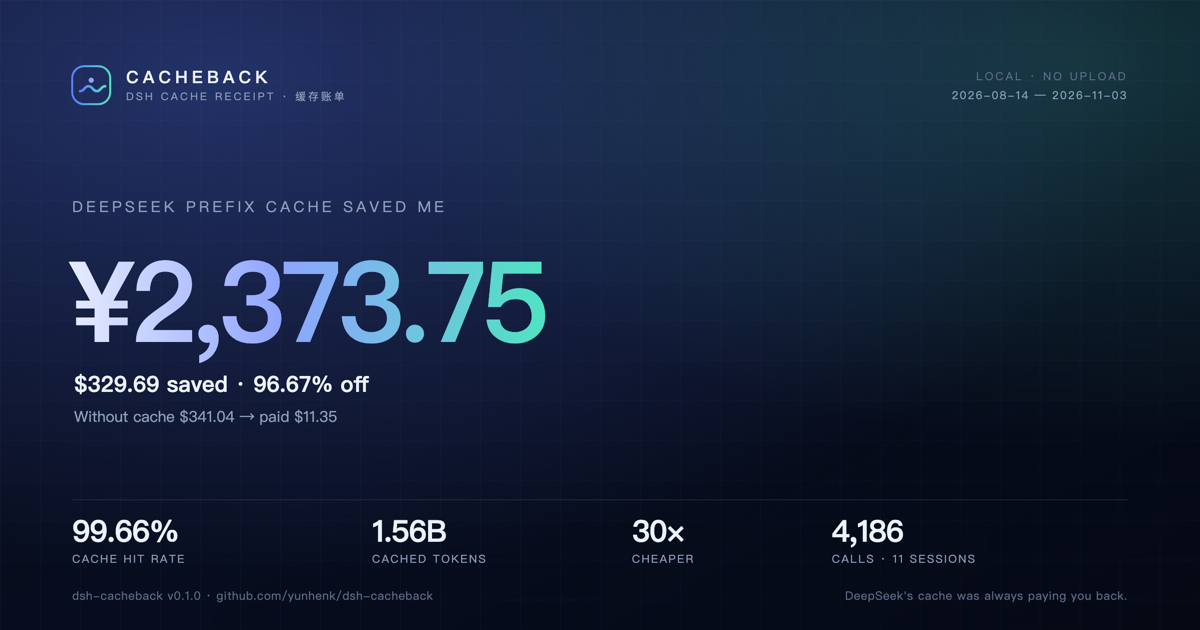
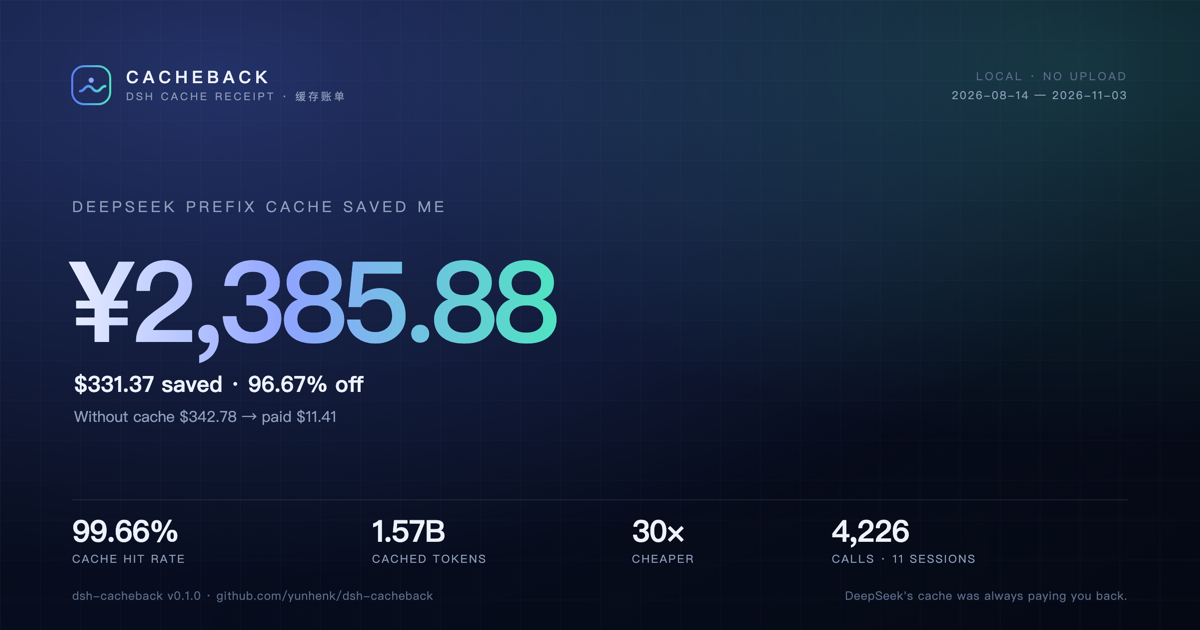
Polish receipt and prepare storefront assets

diff --git a/docs/index.html b/docs/index.html
@@ -7,7 +7,7 @@
 <title>Cacheback · DeepSeek 缓存账单</title>
 <meta name="description" content="Cacheback 把 DeepSeek 前缀缓存替你省下的钱逐笔算清：回放本地 DSH 会话日志，按官方峰谷价计费，生成可打印的 HTML 账单和可分享的 SVG 卡片。数据不离开本机。">
 <meta property="og:title" content="Cacheback · DeepSeek 缓存账单">
-<meta property="og:description" content="DeepSeek 的前缀缓存一直在替你省钱。Cacheback 把账单打出来：15.5 亿缓存 tokens、99.66% 命中率、省下约 ¥2,368。">
+<meta property="og:description" content="DeepSeek 的前缀缓存一直在替你省钱。Cacheback 把账单打出来：15.7 亿缓存 tokens、99.66% 命中率、省下约 ¥2,386。">
 <meta property="og:image" content="https://yunhenk.github.io/dsh-cacheback/card.png">
 <meta property="og:type" content="website">
 <meta name="twitter:card" content="summary_large_image">
@@ -129,14 +129,14 @@ footer { border-top: 1px solid var(--line); padding: 26px 0 42px; color: var(--f
       <div class="hero-note">零运行时依赖 · 零网络请求 · 只读 ~/.dsh/sessions</div>
     </div>
     <div class="hero-card">
-      <img src="card.png" alt="Cacheback 分享卡：DeepSeek 前缀缓存省下约 ¥2,368">
+      <img src="card.png" alt="Cacheback 分享卡：DeepSeek 前缀缓存省下约 ¥2,386">
     </div>
   </header>
 
   <div class="stats">
     <div class="stat"><b>50×</b><span>缓存命中 vs 未命中价差</span></div>
     <div class="stat"><b>99.66%</b><span>这台机器的命中率</span></div>
-    <div class="stat"><b>≈¥2,368</b><span>已省下（真实日志）</span></div>
+    <div class="stat"><b>≈¥2,386</b><span>已省下（真实日志）</span></div>
     <div class="stat"><b>0</b><span>上传的数据</span></div>
   </div>
 

diff --git a/lib/render-html.js b/lib/render-html.js
@@ -14,13 +14,15 @@ import { tipCopy } from './tips.js'
  *   version?: string,
  *   repo?: string,
  *   generatedAt?: number,
- * }} [options] - footer facts.
+ *   lang?: 'zh' | 'en',
+ * }} [options] - footer facts and tip language.
  * @returns {string} a complete HTML document.
  */
 export function renderReceipt(report, options = {}) {
   const version = options.version ?? '0.1.0'
   const repo = options.repo ?? 'github.com/yunhenk/dsh-cacheback'
   const generatedAt = options.generatedAt ?? Date.now()
+  const tipLang = options.lang === 'en' ? 'en' : 'zh'
   const spend = [
     { key: 'hit', label: 'Cache read', zh: '缓存读取', value: report.hitCostUsd, color: 'var(--blue)' },
     { key: 'miss', label: 'Cache miss', zh: '未命中', value: report.missCostUsd, color: 'var(--amber)' },
@@ -273,7 +275,7 @@ body {
     <div class="panel-head"><h2>What to improve</h2><span>可优化</span></div>
     <div class="tips">
       ${report.tips.map((tip, index) => {
-        const copy = tipCopy('zh', tip, report.usdToCny)
+        const copy = tipCopy(tipLang, tip, report.usdToCny)
         return `<div class="tip"><div class="tip-top"><span class="tip-index">${index + 1}</span><h3>${escapeHtml(copy.title)}</h3><span class="impact">${escapeHtml(copy.impact)}</span></div><p>${escapeHtml(copy.body)}</p></div>`
       }).join('')}
     </div>

diff --git a/lib/render-text.js b/lib/render-text.js
@@ -45,6 +45,7 @@ function zh(report) {
     ...report.tips.map((tip) => { const copy = tipCopy('zh', tip, report.usdToCny); return `  · ${copy.title}：${copy.body}` }),
     '',
     `缓存评分 ${report.score} · ${report.grade}`,
+    ...(report.skippedCalls > 0 ? [`注：另有 ${report.skippedCalls} 次非 DeepSeek provider 的调用未计入（缓存计价不同）。`] : []),
     `说明：逐笔回放本地会话日志，按 DeepSeek 官方峰谷价计费；人民币按 ${report.usdToCny} 估算。数据未离开本机。`,
     '生成 HTML 账单：/cache receipt · 分享卡：/cache card',
   ]
@@ -79,6 +80,7 @@ function en(report) {
     ...report.tips.map((tip) => { const copy = tipCopy('en', tip, report.usdToCny); return `  · ${copy.title}: ${copy.body}` }),
     '',
     `Cache score ${report.score} · ${report.grade}`,
+    ...(report.skippedCalls > 0 ? [`Note: ${report.skippedCalls} calls from other providers were excluded (different cache pricing).`] : []),
     `Method: every call replayed from local logs, priced at DeepSeek's published peak/off-peak rates; CNY at ${report.usdToCny}. Nothing leaves this machine.`,
     'HTML receipt: /cache receipt · Share card: /cache card',
   ]

diff --git a/lib/format.js b/lib/format.js
@@ -10,7 +10,7 @@
  */
 export function usd(value) {
   const amount = Number(value) || 0
-  const digits = Math.abs(amount) >= 0.1 ? 2 : Math.abs(amount) >= 0.01 ? 3 : 4
+  const digits = amount === 0 || Math.abs(amount) >= 0.1 ? 2 : Math.abs(amount) >= 0.01 ? 3 : 4
   return `$${amount.toLocaleString('en-US', {
     minimumFractionDigits: digits,
     maximumFractionDigits: digits,
@@ -24,7 +24,7 @@ export function usd(value) {
  */
 export function cny(value) {
   const amount = Number(value) || 0
-  const digits = Math.abs(amount) >= 1 ? 2 : 4
+  const digits = amount === 0 || Math.abs(amount) >= 1 ? 2 : 4
   return `¥${amount.toLocaleString('zh-CN', {
     minimumFractionDigits: digits,
     maximumFractionDigits: digits,

diff --git a/lib/report.js b/lib/report.js
@@ -96,6 +96,7 @@ export async function generate(options = {}) {
     repo: options.repo,
     version: options.version,
     generatedAt: report.generatedAt,
+    lang,
   })
   const file = path.join(dir, `receipt-${stamp}.html`)
   const latest = path.join(dir, 'latest-receipt.html')

diff --git a/README.zh.md b/README.zh.md
@@ -9,14 +9,14 @@
 </p>
 
 <p align="center">
-  <img src="docs/card.png" alt="Cacheback 分享卡：DeepSeek 前缀缓存省下 ¥2,368" width="100%">
+  <img src="docs/card.png" alt="Cacheback 分享卡：DeepSeek 前缀缓存省下 ¥2,386" width="100%">
 </p>
 
 Cacheback 是一个 [DeepSeek Harness](https://github.com/deepseek-ai/deepseek-harness) 插件。它读取 DSH 本来就在写的会话日志，逐笔回放每一次模型调用，按 DeepSeek 官方峰谷价重新计费，然后回答一个问题：
 
 > **DeepSeek 的前缀缓存，到底替我省了多少钱？**
 
-在这台开发机上：**15.5 亿缓存命中 tokens、99.66% 命中率、省下约 ¥2,368**。同样的 prompt 如果全部按未命中价重读，大约要贵 30 倍。截图里的项目名已脱敏，你自己跑出来的账单会用真实项目名。
+在这台开发机上：**15.7 亿缓存命中 tokens、99.66% 命中率、省下约 ¥2,386**。同样的 prompt 如果全部按未命中价重读，大约要贵 30 倍。截图里的项目名已脱敏，你自己跑出来的账单会用真实项目名。
 
 [English](README.md) | 中文
 
@@ -26,23 +26,23 @@ Cacheback 是一个 [DeepSeek Harness](https://github.com/deepseek-ai/deepseek-h
 
 ```text
 Cacheback · DeepSeek 缓存账单
-2026-08-14 → 2026-11-03 · 11 个会话 · 5 个项目 · 4,172 次调用
+2026-08-14 → 2026-11-03 · 11 个会话 · 5 个项目 · 4,226 次调用
 
-DeepSeek 前缀缓存为你省下 ≈¥2,368.33（$328.94）。
-没有缓存 $340.26 → 实际 $11.32 · 便宜 30× · 命中率 99.66%
+DeepSeek 前缀缓存为你省下 ≈¥2,385.88（$331.37）。
+没有缓存 $342.78 → 实际 $11.41 · 便宜 30× · 命中率 99.66%
 
-花费构成：缓存读取 $6.71 · 未命中 $1.29 · 输出 $3.32
-Tokens：命中 1.55B · 未命中 5.26M · 输出 3.56M
+花费构成：缓存读取 $6.76 · 未命中 $1.29 · 输出 $3.35
+Tokens：命中 1.57B · 未命中 5.3M · 输出 3.64M
 
 项目
   Project A            $185.55  ·  2,186 次  ·  99.66%
   Project B             $70.53  ·  1,041 次  ·  99.69%
-  Project C             $68.34  ·    774 次  ·  99.66%
+  Project C             $68.86  ·    780 次  ·  99.67%
 
 可优化
   · 峰时溢价：2,119 次调用落在峰时。谷时价格直接减半。
   · 冷启动 4 次，花了 $0.14。续用会话，别每个任务都新开。
-  · 输出占账单 29%。回答短一点，砍掉最大的一块。
+  · 输出占账单 29.4%。回答短一点，砍掉最大的一块。
   · 保持工具前缀稳定：装/卸插件会重写缓存前缀。
 
 缓存评分 99.7 · S
@@ -141,6 +141,10 @@ node --test test/*.test.js
 测试覆盖：峰谷日历、cache write 计费、多帧 Zstandard 解码、seed 历史去重、脱敏与转义、命令解析、HTML/SVG 渲染。不调用模型，不联网。
 
 精确公式和事件结构见 [docs/method.md](docs/method.md)。
+
+## 给 DSH 团队
+
+如果你在做 DSH 的支持、增长或社区：Cacheback 是「缓存有没有在工作、账单为什么高」的本地答案。不需要埋点、不需要服务器、不需要账号。让用户敲一次 `/cache`，分享卡就是一份准确、正向、来自他自己机器的缓存价值说明。
 
 ## License
 

diff --git a/README.md b/README.md
@@ -9,7 +9,7 @@
 </p>
 
 <p align="center">
-  <img src="docs/card.png" alt="Cacheback share card: ¥2,368 saved by DeepSeek prefix caching" width="100%">
+  <img src="docs/card.png" alt="Cacheback share card: ¥2,386 saved by DeepSeek prefix caching" width="100%">
 </p>
 
 Cacheback is a [DeepSeek Harness](https://github.com/deepseek-ai/deepseek-harness) plugin that turns the session
@@ -18,7 +18,7 @@ published peak/off-peak rates, and answers one question:
 
 > **How much did DeepSeek's prefix cache actually save me?**
 
-On the machine this was built on: **1.55B cached tokens, a 99.66% cache hit rate, and ≈¥2,368 saved** — the same
+On the machine this was built on: **1.57B cached tokens, a 99.66% cache hit rate, and ≈¥2,386 saved** — the same
 prompts would have cost about 30× more at the cache-miss price. Project names are redacted in the screenshot; your
 receipt uses your own workspace names.
 
@@ -31,23 +31,23 @@ DSH already records both numbers for every call, but nothing puts them on one pa
 
 ```text
 Cacheback · DeepSeek cache receipt
-2026-08-14 → 2026-11-03 · 11 sessions · 5 projects · 4,172 calls
+2026-08-14 → 2026-11-03 · 11 sessions · 5 projects · 4,226 calls
 
-DeepSeek prefix caching saved you ≈¥2,368.33 ($328.94).
-Without cache $340.26 → you paid $11.32 · 30× cheaper · 99.66% hit rate
+DeepSeek prefix caching saved you ≈¥2,385.88 ($331.37).
+Without cache $342.78 → you paid $11.41 · 30× cheaper · 99.66% hit rate
 
-Spend: cache read $6.71 · cache miss $1.29 · output $3.32
-Tokens: 1.55B hit · 5.26M miss · 3.56M out
+Spend: cache read $6.76 · cache miss $1.29 · output $3.35
+Tokens: 1.57B hit · 5.3M miss · 3.64M out
 
 Projects
   Project A            $185.55  ·  2,186 calls  ·  99.66%
   Project B             $70.53  ·  1,041 calls  ·  99.69%
-  Project C             $68.34  ·    774 calls  ·  99.66%
+  Project C             $68.86  ·    780 calls  ·  99.67%
 
 What to improve
   · Peak premium: 2,119 calls ran at peak. Off-peak is half price.
   · 4 cold starts cost $0.14. Resume a session instead of starting a new one.
-  · Output is 29% of the bill. Shorter answers cut the biggest line.
+  · Output is 29.4% of the bill. Shorter answers cut the biggest line.
   · Keep the tool prefix stable: plugin changes rewrite the cached prefix.
 
 Cache score 99.7 · S
@@ -157,6 +157,12 @@ The test suite covers the pricing calendar, cache-write accounting, multi-frame 
 deduplication, redaction/escaping, command parsing, and the HTML/SVG renderers. No model calls, no network.
 
 See [docs/method.md](docs/method.md) for the exact formulas and event schema.
+
+## For the DSH team
+
+If you run DSH support, growth, or community: Cacheback is a local, privacy-preserving answer to *“is the cache
+working, and why is my bill high?”* It needs no telemetry, no server, and no account. Point a user at `/cache`; the
+share card tells an accurate, positive cache-value story with numbers from their own machine.
 
 ## License
 

diff --git a/docs/method.md b/docs/method.md
@@ -71,6 +71,9 @@ A call is included when all of these hold:
 Calls from another provider are counted as `skippedCalls` and reported as excluded. They are not priced with
 DeepSeek's table, because that would be wrong.
 
+The session also records how many times its **tool table** changed (`request/header` → `tools` fingerprint). Each
+change rewrites the cached prefix; the receipt surfaces the count as a `tool churn` tip when it is non-zero.
+
 Retries are separate `assistant/message` records with their own usage, so they are separate billed attempts. That
 is intentional: a retry costs money too.
 
